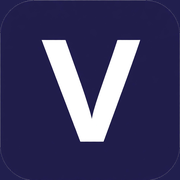
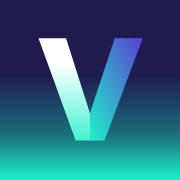
Add files via upload

diff --git a/index.html b/index.html
@@ -21,7 +21,7 @@ window.BRAND = { name: "VeniXtus QMS", legal: "VENIXTUS (Pty) Ltd", mark: "V", h
 <meta name="apple-mobile-web-app-capable" content="yes">
 <meta name="theme-color" content="#211f4e">
 <link rel="preconnect" href="https://fonts.googleapis.com">
-<link href="https://fonts.googleapis.com/css2?family=Fraunces:opsz,wght@9..144,500;9..144,600&family=Public+Sans:wght@400;500;600;700;800&display=swap" rel="stylesheet">
+<link href="https://fonts.googleapis.com/css2?family=Public+Sans:wght@400;500;600;700;800&display=swap" rel="stylesheet">
 <script src="https://cdnjs.cloudflare.com/ajax/libs/jspdf/2.5.1/jspdf.umd.min.js"></script>
 <script src="https://cdnjs.cloudflare.com/ajax/libs/jspdf-autotable/3.8.2/jspdf.plugin.autotable.min.js"></script>
 <script src="https://cdnjs.cloudflare.com/ajax/libs/xlsx/0.18.5/xlsx.full.min.js"></script>
@@ -38,23 +38,23 @@ window.BRAND = { name: "VeniXtus QMS", legal: "VENIXTUS (Pty) Ltd", mark: "V", h
    ========================================================================== */
 
 :root {
-  --ohs-cream: #f7f3ea;
+  --ohs-cream: #f3f5fa;
   --ohs-cream-panel: #ffffff;
-  --ohs-navy: #1b2a4a;
-  --ohs-navy-dark: #14213d;
-  --ohs-rust: #8b5e34;
-  --ohs-rust-dark: #6f4a2a;
-  --ohs-border: #ddd4c0;
+  --ohs-navy: #211f4e;
+  --ohs-navy-dark: #18163d;
+  --ohs-rust: #0A7A6A;
+  --ohs-rust-dark: #086758;
+  --ohs-border: #e1e4ee;
   --ohs-text: #2a2a2a;
-  --ohs-text-muted: #7a7266;
+  --ohs-text-muted: #667086;
   --ohs-success-bg: #eaf3ea;
   --ohs-success-text: #2f5d34;
   --ohs-warning-bg: #fdf3e3;
   --ohs-warning-text: #8a5a12;
   --ohs-error-bg: #fbeaea;
   --ohs-error-text: #8b3a3a;
-  --ohs-font-serif: Georgia, 'Times New Roman', serif;
-  --ohs-font-sans: -apple-system, BlinkMacSystemFont, 'Segoe UI', Roboto, sans-serif;
+  --ohs-font-serif: 'Public Sans', system-ui, -apple-system, 'Segoe UI', sans-serif;
+  --ohs-font-sans: 'Public Sans', -apple-system, BlinkMacSystemFont, 'Segoe UI', Roboto, sans-serif;
 }
 
 /* ---- Modal shell -------------------------------------------------------- */
@@ -354,22 +354,22 @@ window.BRAND = { name: "VeniXtus QMS", legal: "VENIXTUS (Pty) Ltd", mark: "V", h
 }
 
   :root{
-    --bg:#f7f5ee; --paper:#ffffff; --line:#e2dbc9; --line2:#eee7d5; --ink:#2a2620;
-    --muted:#8a8168; --navy:#1c2b4a; --navyBg:#e4e9f2; --rust:#9b3f28; --rustBg:#f6e4dd;
+    --bg:#f3f5fa; --paper:#ffffff; --line:#e1e4ee; --line2:#eceff6; --ink:#1A0F2E;
+    --muted:#667086; --navy:#211f4e; --navyBg:#e8e9f6; --teal:#0A7A6A; --tealBg:#e0f2ef; --rust:#9b3f28; --rustBg:#f6e4dd;
     --green:#3f6b2e; --greenBg:#e6ede0; --amber:#8a5a10; --amberBg:#faedd4;
   }
   body.dark{
-    --bg:#121212; --paper:#1d1d1d; --line:#333029; --line2:#2b2822; --ink:#f0ede4;
-    --muted:#a39a86; --navy:#5b7fc4; --navyBg:#26314a; --rust:#e08669; --rustBg:#3d251f;
+    --bg:#0f0e22; --paper:#1b1938; --line:#2e2b57; --line2:#25224a; --ink:#f4f1ff;
+    --muted:#a9a6c8; --navy:#5f5bd0; --navyBg:#26234f; --teal:#2cc4ad; --tealBg:#12363a; --rust:#e08669; --rustBg:#3d251f;
     --green:#8fc46e; --greenBg:#213321; --amber:#e0b95f; --amberBg:#3a3020;
   }
   body.dark .logo{background:var(--navy);}
-  body.dark header{background:rgba(18,18,18,.95);}
+  body.dark header{background:rgba(15,14,34,.95);}
   *{box-sizing:border-box;}
   body{margin:0;background:var(--bg);color:var(--ink);font-family:'Public Sans',sans-serif;}
-  h1,h2,h3,.serif{font-family:'Fraunces',serif;}
+  h1,h2,h3,.serif{font-family:'Public Sans',system-ui,sans-serif;font-weight:700;letter-spacing:-.01em;}
   .wrap{max-width:900px;margin:0 auto;padding:0 20px;}
-  header{border-bottom:1px solid var(--line);position:sticky;top:0;background:rgba(247,245,238,.95);backdrop-filter:blur(6px);z-index:10;}
+  header{border-bottom:1px solid var(--line);position:sticky;top:0;background:rgba(255,255,255,.94);backdrop-filter:blur(6px);z-index:10;}
   .headrow{display:flex;align-items:center;justify-content:space-between;padding:16px 0;flex-wrap:wrap;gap:10px;row-gap:14px;}
   .brand{display:flex;align-items:flex-start;gap:10px;}
   .sig-box{border:1px dashed var(--line);border-radius:8px;padding:10px;background:#faf8f2;}
@@ -379,6 +379,12 @@ window.BRAND = { name: "VeniXtus QMS", legal: "VENIXTUS (Pty) Ltd", mark: "V", h
     .headrow>div:last-child{margin-top:2px;}
   }
   .brand-w .q{font-weight:800;}
+  #vx-boot{position:fixed;inset:0;z-index:99999;background:#f3f5fa;display:flex;align-items:center;justify-content:center;animation:vxBoot .45s ease .9s forwards;}
+  #vx-boot .vx-bw{margin-top:18px;}
+  #vx-boot .brand-w{font-size:36px;line-height:1.1;}
+  #vx-boot .brand-w .q{font-size:.46em;vertical-align:.55em;letter-spacing:.05em;}
+  @keyframes vxBoot{to{opacity:0;visibility:hidden;}}
+  @media (prefers-color-scheme:dark){#vx-boot{background:#0f0e22;}#vx-boot .brand-w{color:#f4f1ff;}#vx-boot .brand-w .x{color:#2cc4ad;}}
   .hd-logo{display:flex;flex-shrink:0;}
   .hd-logo .vx-logo,#print-report .vx-logo{margin:0;box-shadow:none;border-radius:10px;}
   .vx-page{min-height:100vh;display:flex;align-items:center;justify-content:center;padding:20px 16px;background:linear-gradient(160deg,#eef0f6,#dfe3ee);}
@@ -424,7 +430,9 @@ window.BRAND = { name: "VeniXtus QMS", legal: "VENIXTUS (Pty) Ltd", mark: "V", h
   .tabnav::-webkit-scrollbar{display:none;}
   [data-action="breadcrumb-back"]::-webkit-scrollbar{display:none;}
   main{padding:24px 0 60px;}
-  .card{background:var(--paper);border:1px solid var(--line);border-radius:12px;box-shadow:0 1px 2px rgba(30,25,15,.04);}
+  .card{background:var(--paper);border:1px solid var(--line);border-radius:16px;box-shadow:0 1px 3px rgba(33,31,78,.06),0 8px 24px rgba(33,31,78,.04);}
+  .stats .card{border-top:3px solid var(--teal);}
+  body.dark .card{box-shadow:none;}
   .p4{padding:16px;}
   .stats{display:grid;grid-template-columns:repeat(2,1fr);gap:12px;margin-bottom:20px;}
   @media(min-width:700px){.stats{grid-template-columns:repeat(4,1fr);}}
@@ -435,19 +443,19 @@ window.BRAND = { name: "VeniXtus QMS", legal: "VENIXTUS (Pty) Ltd", mark: "V", h
   .dash-sec:not([open])>summary::after{content:'›';}
   @media(max-width:480px){ .brand p{display:none;} .hdr-ws{display:none !important;} body{font-size:16px;} .stat-value{font-size:26px;} }
   .stat-label{font-size:11px;text-transform:uppercase;letter-spacing:.05em;color:var(--muted);margin-bottom:4px;}
-  .stat-value{font-size:24px;font-family:'Fraunces',serif;color:var(--navy);}
+  .stat-value{font-size:26px;font-family:'Public Sans',system-ui,sans-serif;font-weight:800;color:var(--navy);}
   input,select{background:#fff;border:1px solid var(--line);border-radius:6px;padding:8px 10px;font-size:14px;color:var(--ink);font-family:inherit;width:100%;}
   input:focus,select:focus{outline:none;border-color:var(--rust);box-shadow:0 0 0 3px rgba(155,63,40,.12);}
   label.field{display:flex;flex-direction:column;gap:4px;font-size:11px;text-transform:uppercase;letter-spacing:.04em;color:var(--muted);}
-  .btn{display:inline-flex;align-items:center;gap:6px;padding:8px 14px;border-radius:6px;font-size:14px;cursor:pointer;border:none;font-family:inherit;}
+  .btn{display:inline-flex;align-items:center;gap:6px;padding:9px 14px;border-radius:10px;font-size:14px;cursor:pointer;border:none;font-family:inherit;}
   .btn-primary{background:var(--navy);color:#fff;font-weight:500;}
-  .btn-primary:hover{background:#16223b;}
-  .btn-ghost{background:transparent;border:1px solid var(--line);color:#4a4535;}
-  .btn-ghost:hover{background:#efe9dc;}
+  .btn-primary:hover{background:#18163d;}
+  .btn-ghost{background:transparent;border:1px solid var(--line);color:var(--ink);}
+  .btn-ghost:hover{background:var(--navyBg);}
   .btn-danger{background:transparent;border:1px solid #e8c3b5;color:var(--rust);}
   .btn-danger:hover{background:var(--rustBg);}
   .tag{display:inline-flex;align-items:center;gap:4px;padding:2px 8px;border-radius:999px;border:1px solid;font-size:11px;font-weight:500;}
-  .tag-neutral{background:#efe9dc;color:#5c5540;border-color:#ddd4bc;}
+  .tag-neutral{background:var(--navyBg);color:var(--ink);border-color:var(--line);}
   .tag-rust{background:var(--rustBg);color:var(--rust);border-color:#e8c3b5;}
   .tag-green{background:var(--greenBg);color:var(--green);border-color:#c7dab8;}
   .tag-navy{background:var(--navyBg);color:var(--navy);border-color:#c3cee2;}
@@ -464,7 +472,7 @@ window.BRAND = { name: "VeniXtus QMS", legal: "VENIXTUS (Pty) Ltd", mark: "V", h
   .item-row{display:flex;align-items:flex-start;gap:8px;padding:4px 0;}
   .result-toggle{display:flex;gap:2px;flex-shrink:0;}
   .result-toggle button{background:none;border:none;cursor:pointer;padding:4px;border-radius:4px;font-size:16px;line-height:1;}
-  .result-toggle button.active{background:#efe9dc;}
+  .result-toggle button.active{background:var(--navyBg);}
   .finding-box{border:1px solid var(--line2);border-radius:10px;padding:12px;margin-bottom:10px;}
   .muted-italic{color:#a39a86;font-style:italic;font-size:13px;}
   .flex-wrap{display:flex;flex-wrap:wrap;gap:8px;align-items:center;}
@@ -496,7 +504,7 @@ window.BRAND = { name: "VeniXtus QMS", legal: "VENIXTUS (Pty) Ltd", mark: "V", h
   }
 </style>
 </head>
-<body>
+<body><div id="vx-boot" aria-hidden="true"><div style="text-align:center"><svg viewBox="0 0 100 100" width="96" height="96" aria-hidden="true" style="border-radius:22px;box-shadow:0 10px 28px rgba(25,201,174,.28)"><defs><linearGradient id="bsa" x1="0" y1="0" x2="0" y2="1"><stop offset=".42" stop-color="#1f1b4e"/><stop offset=".75" stop-color="#1a6f7c"/><stop offset="1" stop-color="#19f0cc"/></linearGradient><linearGradient id="bsb" x1="0" y1="0" x2="0" y2="1"><stop offset=".25" stop-color="#fff"/><stop offset="1" stop-color="#43f2d3"/></linearGradient><linearGradient id="bsc" x1="1" y1="0" x2="0" y2="1"><stop offset="0" stop-color="#5a3fd2"/><stop offset="1" stop-color="#22f0c8"/></linearGradient></defs><rect width="100" height="100" rx="22" fill="url(#bsa)"/><polygon points="21.4,21.3 36.7,21.3 50.0,63.0 50.0,78.1 42.0,78.1" fill="url(#bsb)"/><polygon points="50.0,63.0 63.8,21.3 79.2,21.3 58.0,78.1 50.0,78.1" fill="url(#bsc)" stroke="url(#bsc)" stroke-width=".15"/></svg><div class="vx-bw"><span class="brand-w">Veni<span class="x">X</span>tus <span class="q">QMS</span></span></div></div></div>
 <div id="app"></div>
 <div id="ohs-modal-root"></div>
 <div id="print-report"></div>
